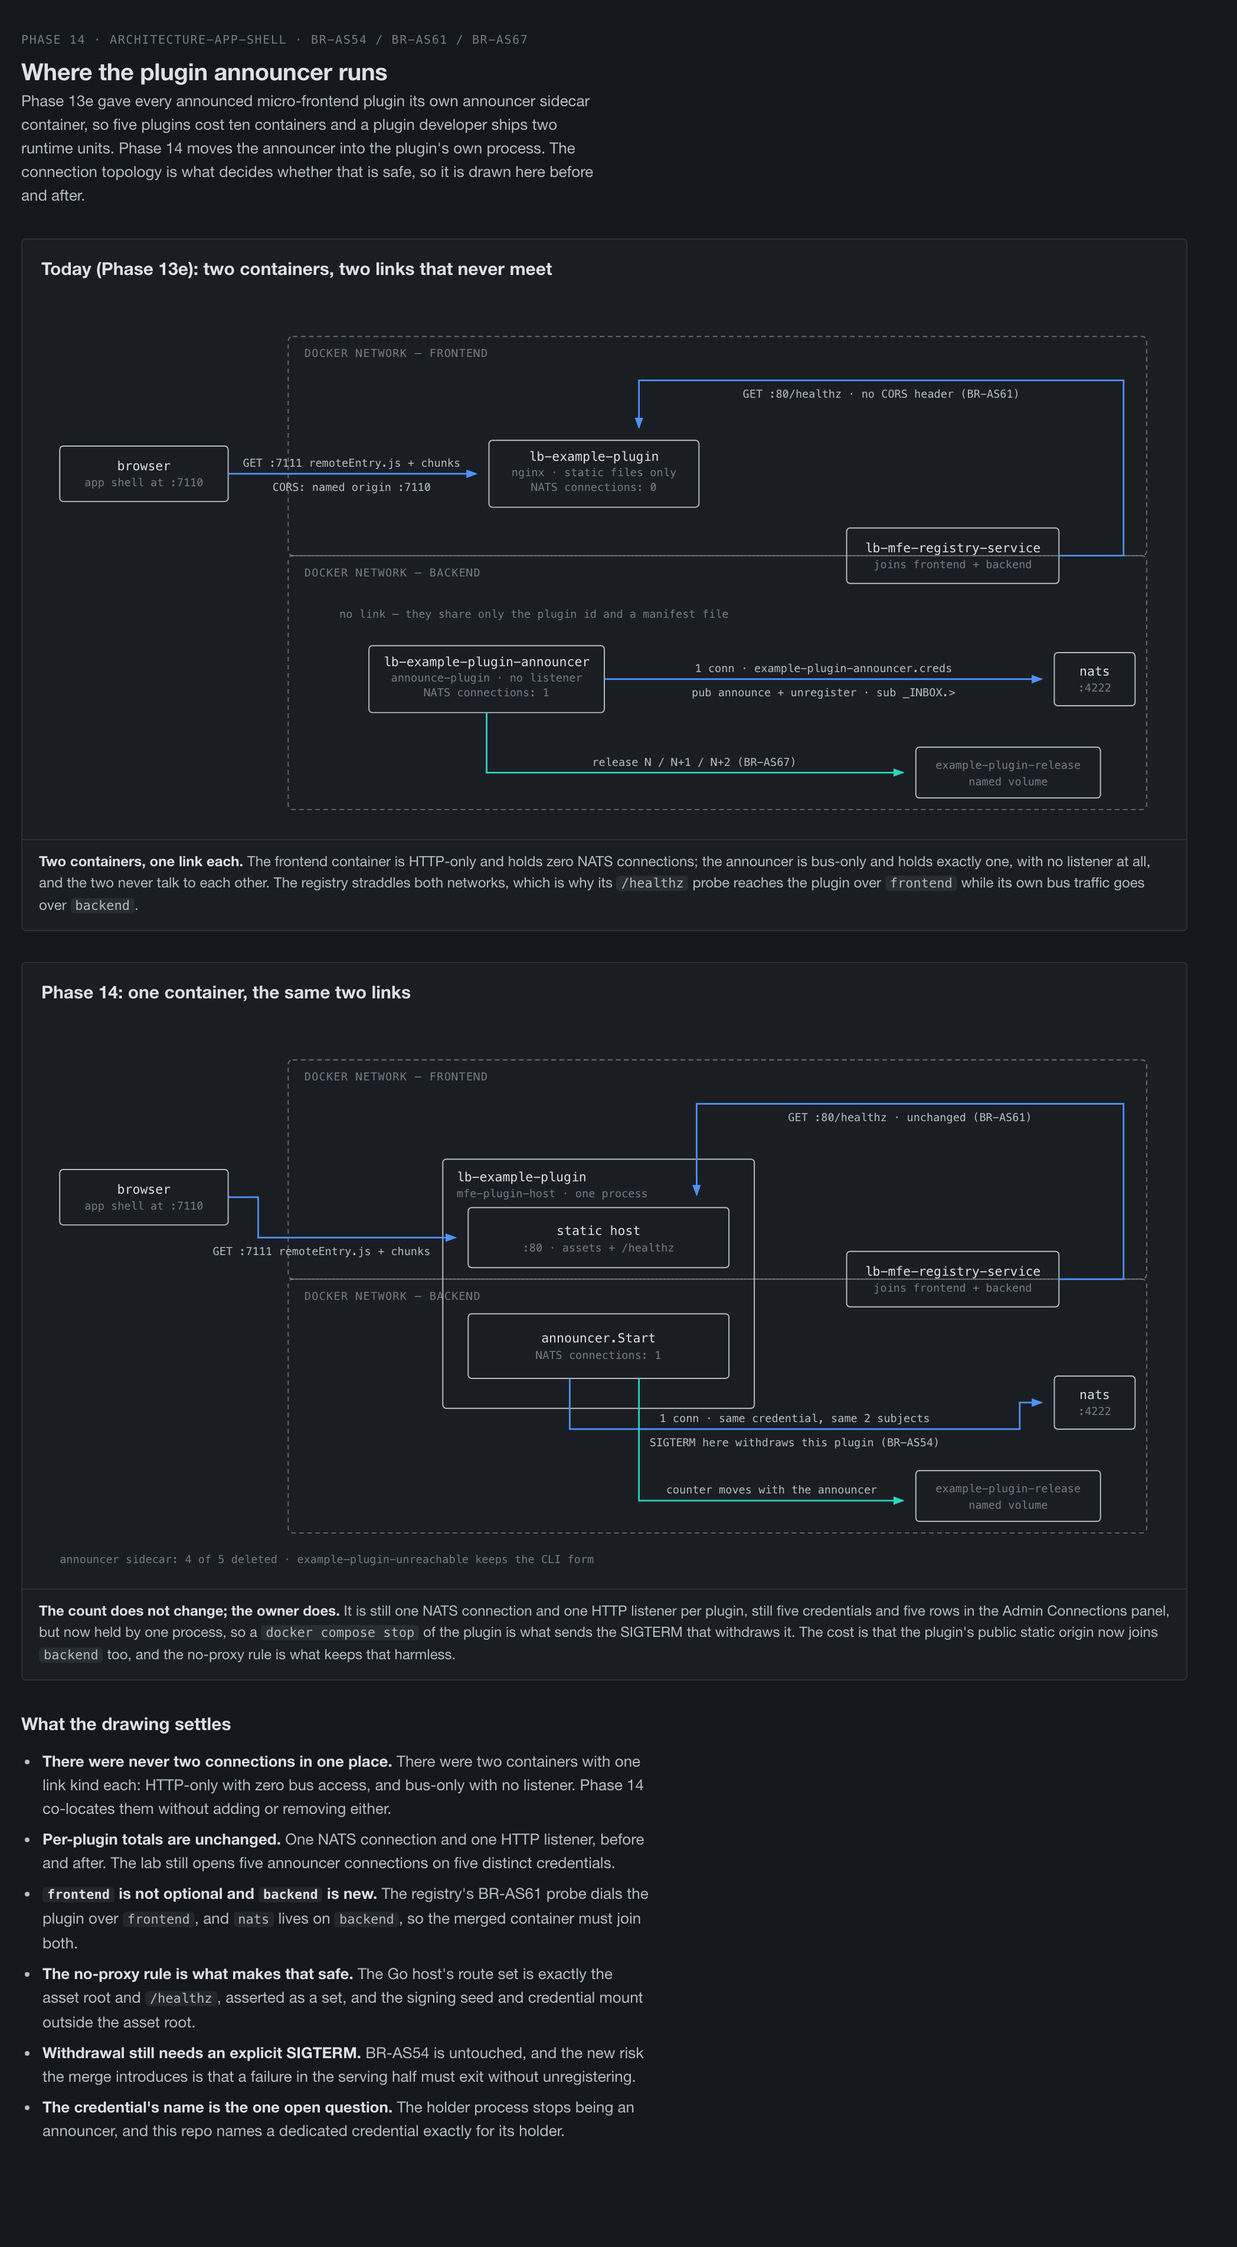
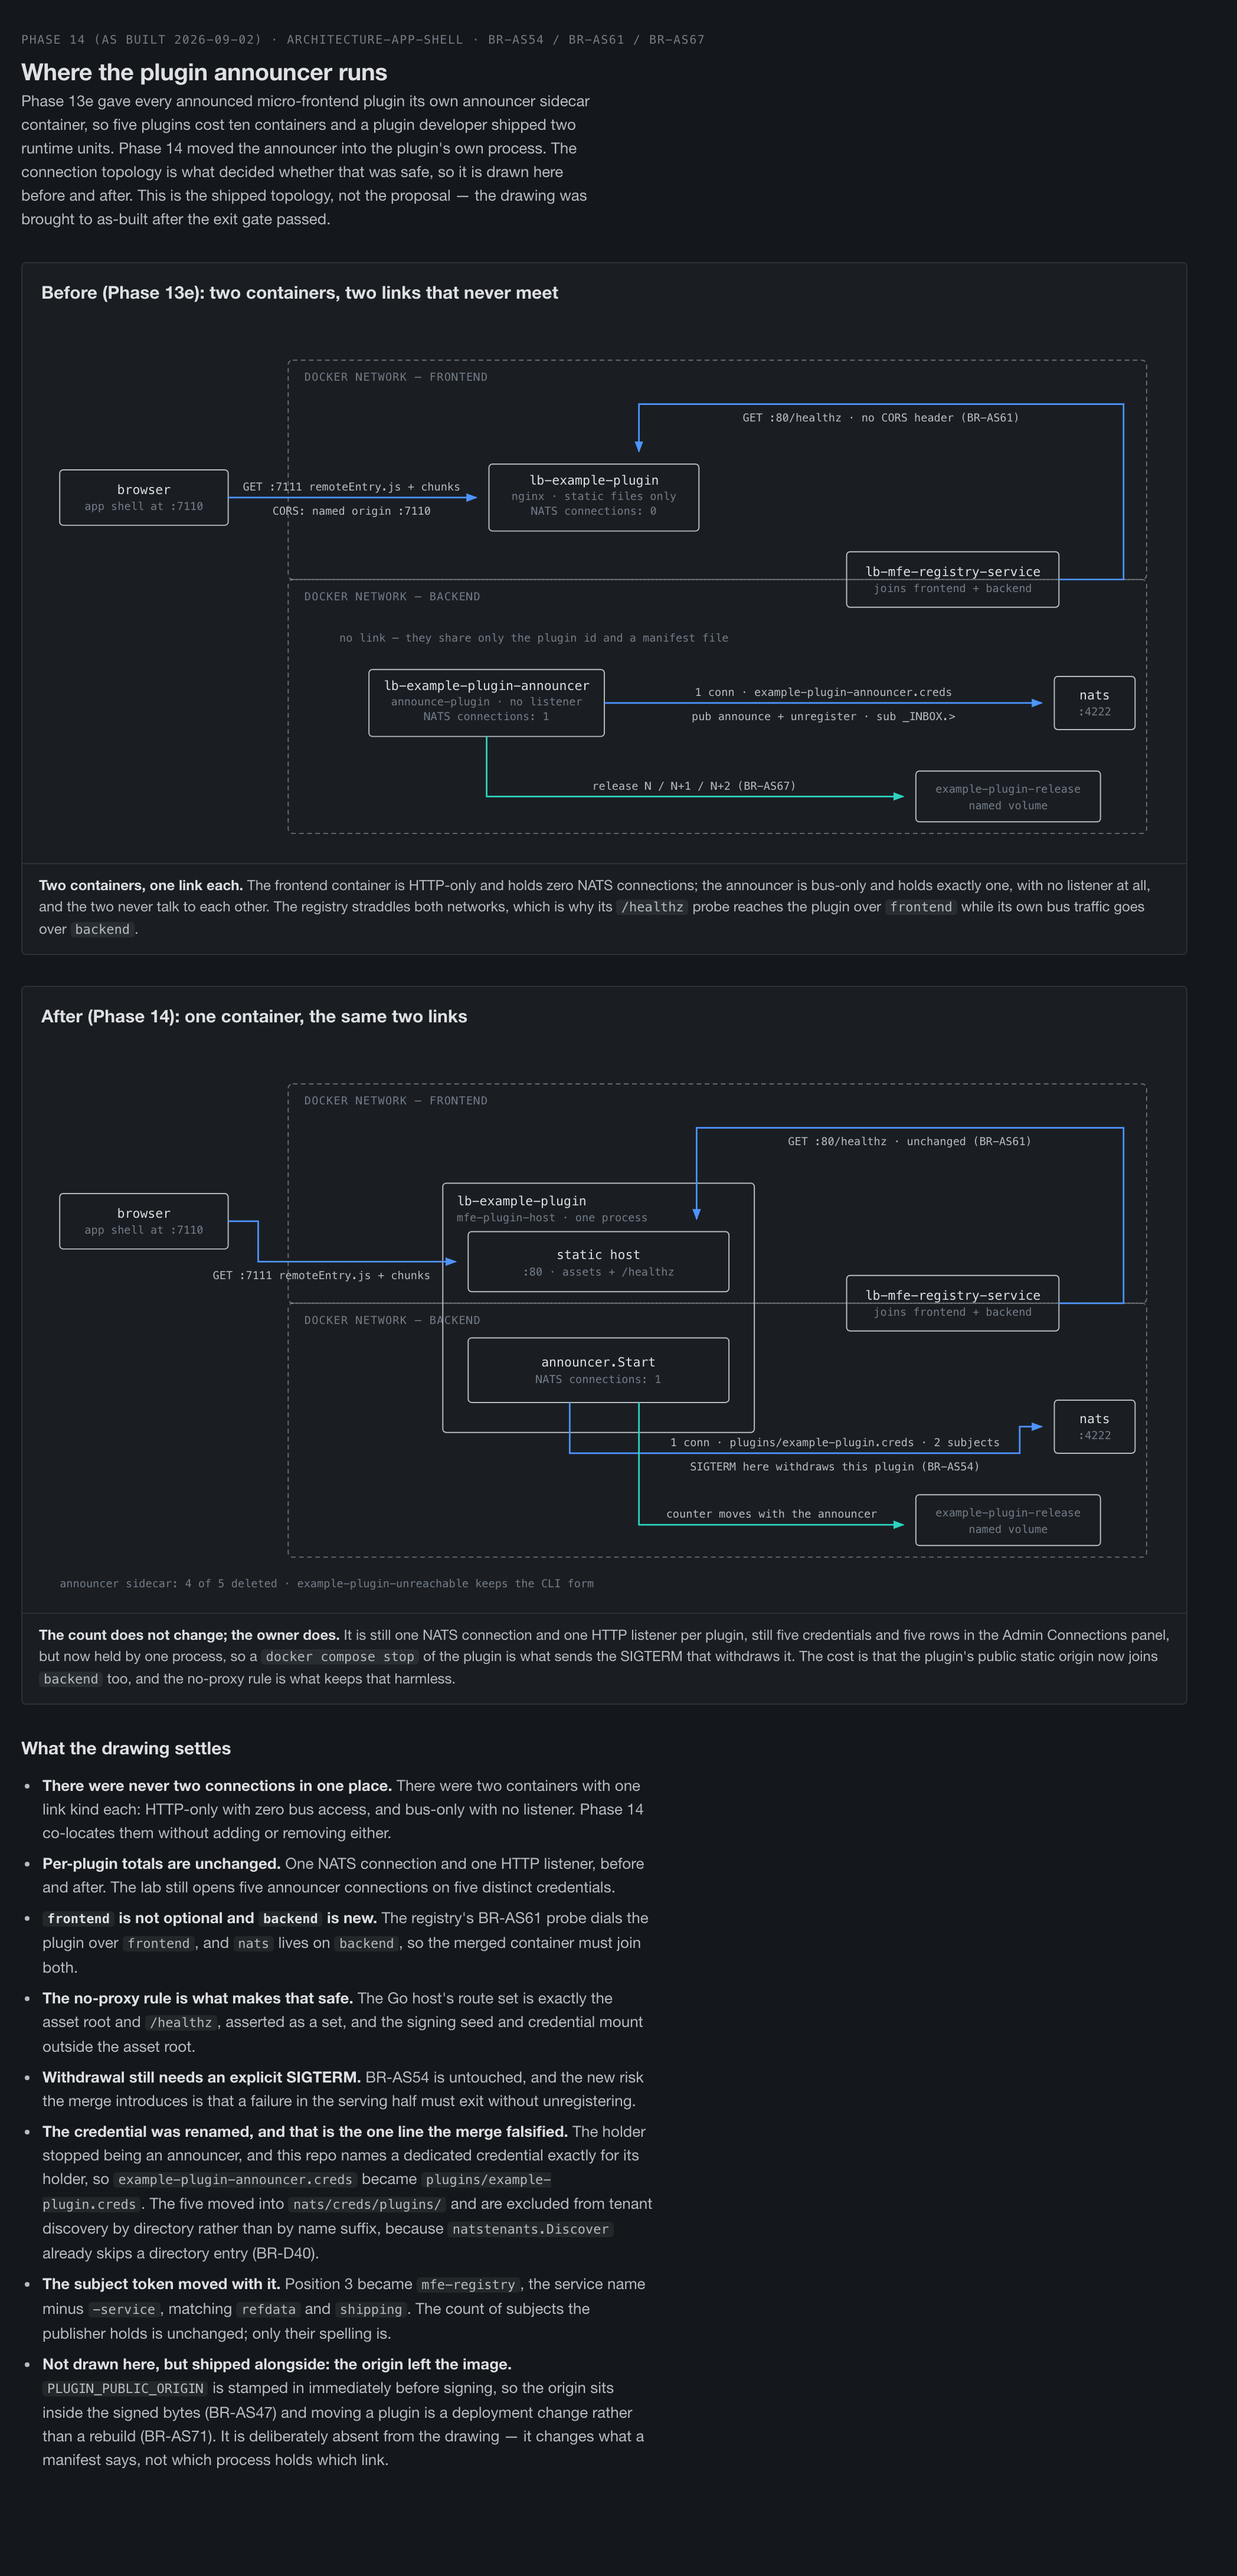
docs(app-shell): bring the announcer topology drawing to as-built
The before/after was drawn to decide Phase 14, and the migration then falsified
one line of it: the after panel claimed "same credential, same 2 subjects", but
decision 11 renamed the credential to the plugin id under nats/creds/plugins/
and decision 13 moved the subject token to mfe-registry. Both are now in the
drawing, with the discovery-by-directory reason (BR-D40) and the naming rule
spelled out in the findings list.

The origin change (BR-AS71) is deliberately kept out of the drawing and called
out as absent — it changes what a manifest says, not which process holds which
link, and the diagram's whole claim is a counting claim about links.

Headings lose their proposal tense, the label stack shifts right to clear the
release-counter path the longer credential label started crossing, and the PNG
is re-exported. audit-svg-layout: 2 diagrams, 0 errors, 0 warnings.

diff --git a/demos/01-dictionary/diagrams/mfe-announcer-topology.html b/demos/01-dictionary/diagrams/mfe-announcer-topology.html
@@ -50,15 +50,15 @@ li b { color: var(--text); font-weight: 600; }
 <div class="wrap">
   <div class="head">
     <div class="head-txt">
-      <span class="eyebrow">Phase 14 · ARCHITECTURE-APP-SHELL · BR-AS54 / BR-AS61 / BR-AS67</span>
+      <span class="eyebrow">Phase 14 (as built 2026-09-02) · ARCHITECTURE-APP-SHELL · BR-AS54 / BR-AS61 / BR-AS67</span>
       <h1>Where the plugin announcer runs</h1>
-      <p class="sub">Phase 13e gave every announced micro-frontend plugin its own announcer sidecar container, so five plugins cost ten containers and a plugin developer ships two runtime units. Phase 14 moves the announcer into the plugin's own process. The connection topology is what decides whether that is safe, so it is drawn here before and after.</p>
+      <p class="sub">Phase 13e gave every announced micro-frontend plugin its own announcer sidecar container, so five plugins cost ten containers and a plugin developer shipped two runtime units. Phase 14 moved the announcer into the plugin's own process. The connection topology is what decided whether that was safe, so it is drawn here before and after. This is the shipped topology, not the proposal &#8212; the drawing was brought to as-built after the exit gate passed.</p>
     </div>
   </div>
 
   <figure>
     <div class="fig-body">
-      <h2 class="figure-title">Today (Phase 13e): two containers, two links that never meet</h2>
+      <h2 class="figure-title">Before (Phase 13e): two containers, two links that never meet</h2>
       <svg viewBox="0 0 980 470" role="img"
         aria-label="Today in Phase 13e, the browser reaches the HTTP-only lb-example-plugin container on the frontend Docker network, while a separate lb-example-plugin-announcer container reaches NATS and the example-plugin-release volume on the backend network. The two plugin containers have no link between them. The registry service straddles both networks so it can probe the plugin over frontend while using backend for its own bus traffic.">
         <defs>
@@ -124,7 +124,7 @@ li b { color: var(--text); font-weight: 600; }
 
   <figure>
     <div class="fig-body">
-      <h2 class="figure-title">Phase 14: one container, the same two links</h2>
+      <h2 class="figure-title">After (Phase 14): one container, the same two links</h2>
       <svg viewBox="0 0 980 492" role="img"
         aria-label="In Phase 14, one larger lb-example-plugin container straddles the frontend and backend Docker networks and contains both the static HTTP host and announcer.Start. The browser and registry still reach the static host over HTTP, while announcer.Start holds one NATS connection and updates the release volume. The connection and listener counts stay unchanged even though one process now owns both links.">
         <defs>
@@ -177,8 +177,8 @@ li b { color: var(--text); font-weight: 600; }
         <text class="edge" x="755" y="91" text-anchor="middle">GET :80/healthz · unchanged (BR-AS61)</text>
 
         <path class="flow" marker-end="url(#b-sync)" d="M460 314 L460 358 L850 358 L850 335 L869 335"/>
-        <text class="edge" x="655" y="352" text-anchor="middle">1 conn · same credential, same 2 subjects</text>
-        <text class="edge" x="655" y="373" text-anchor="middle">SIGTERM here withdraws this plugin (BR-AS54)</text>
+        <text class="edge" x="690" y="352" text-anchor="middle">1 conn · plugins/example-plugin.creds · 2 subjects</text>
+        <text class="edge" x="690" y="373" text-anchor="middle">SIGTERM here withdraws this plugin (BR-AS54)</text>
 
         <path class="proj" marker-end="url(#b-store)" d="M520 314 L520 420 L749 420"/>
         <text class="edge" x="635" y="414" text-anchor="middle">counter moves with the announcer</text>
@@ -197,7 +197,9 @@ li b { color: var(--text); font-weight: 600; }
       <li><b><code>frontend</code> is not optional and <code>backend</code> is new.</b> The registry's BR-AS61 probe dials the plugin over <code>frontend</code>, and <code>nats</code> lives on <code>backend</code>, so the merged container must join both.</li>
       <li><b>The no-proxy rule is what makes that safe.</b> The Go host's route set is exactly the asset root and <code>/healthz</code>, asserted as a set, and the signing seed and credential mount outside the asset root.</li>
       <li><b>Withdrawal still needs an explicit SIGTERM.</b> BR-AS54 is untouched, and the new risk the merge introduces is that a failure in the serving half must exit without unregistering.</li>
-      <li><b>The credential's name is the one open question.</b> The holder process stops being an announcer, and this repo names a dedicated credential exactly for its holder.</li>
+      <li><b>The credential was renamed, and that is the one line the merge falsified.</b> The holder stopped being an announcer, and this repo names a dedicated credential exactly for its holder, so <code>example-plugin-announcer.creds</code> became <code>plugins/example-plugin.creds</code>. The five moved into <code>nats/creds/plugins/</code> and are excluded from tenant discovery by directory rather than by name suffix, because <code>natstenants.Discover</code> already skips a directory entry (BR-D40).</li>
+      <li><b>The subject token moved with it.</b> Position 3 became <code>mfe-registry</code>, the service name minus <code>-service</code>, matching <code>refdata</code> and <code>shipping</code>. The count of subjects the publisher holds is unchanged; only their spelling is.</li>
+      <li><b>Not drawn here, but shipped alongside: the origin left the image.</b> <code>PLUGIN_PUBLIC_ORIGIN</code> is stamped in immediately before signing, so the origin sits inside the signed bytes (BR-AS47) and moving a plugin is a deployment change rather than a rebuild (BR-AS71). It is deliberately absent from the drawing &#8212; it changes what a manifest says, not which process holds which link.</li>
     </ul>
   </section>
 </div>

diff --git a/obsidian/V3-Platform/Architecture/Dictionary-POC/ARCHITECTURE-APP-SHELL.md b/obsidian/V3-Platform/Architecture/Dictionary-POC/ARCHITECTURE-APP-SHELL.md
@@ -534,7 +534,10 @@ its thirteen design decisions is
 
 The drawing below is the argument, because the question it answers is a counting
 question: **how many connections does an announced plugin actually hold, and does
-merging the containers change that number?**
+merging the containers change that number?** It was drawn to decide the phase and
+brought to as-built once the exit gate passed on 2026-09-02, so the "after" panel
+is the shipped topology rather than the proposal — the credential rename and the
+`mfe-registry` subject token are in it.
 
 ![Before and after of the MFE plugin announcer topology. Before Phase 14 two containers per plugin each held one kind of link and never talked to each other: the nginx frontend held zero NATS connections and served the browser and the registry's health probe over HTTP, while the announcer sidecar held exactly one NATS connection and ran no listener. After Phase 14 a single container straddles the frontend and backend Docker networks and holds both links in one process, with the connection and listener counts unchanged.](images/mfe-announcer-topology.png)
 
